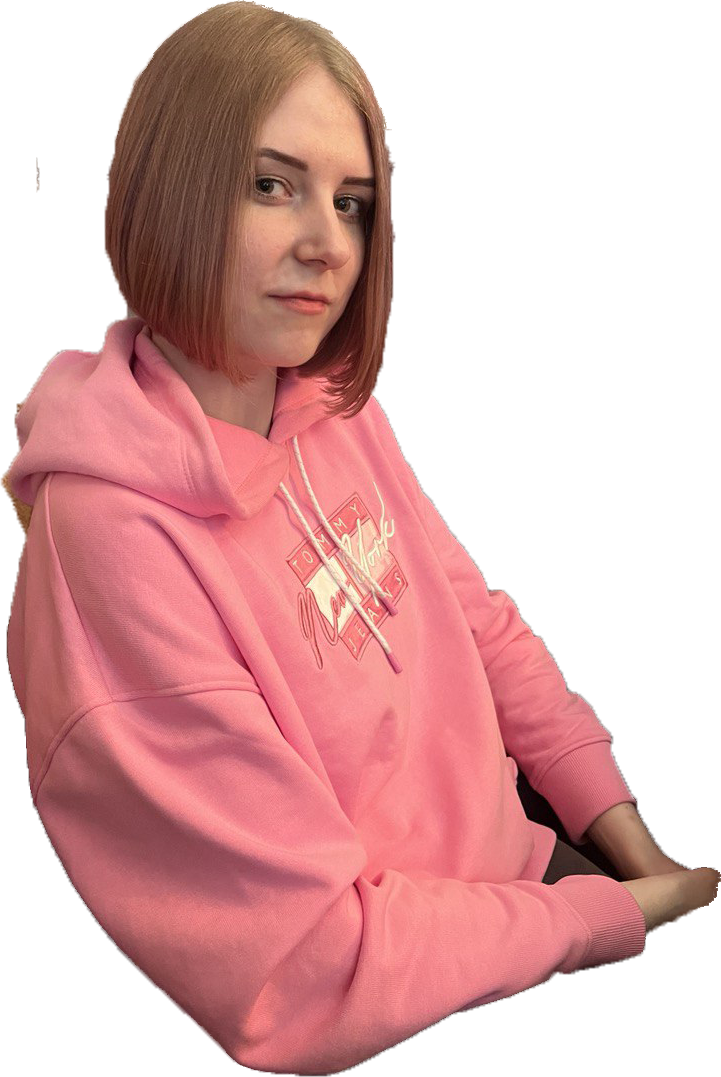
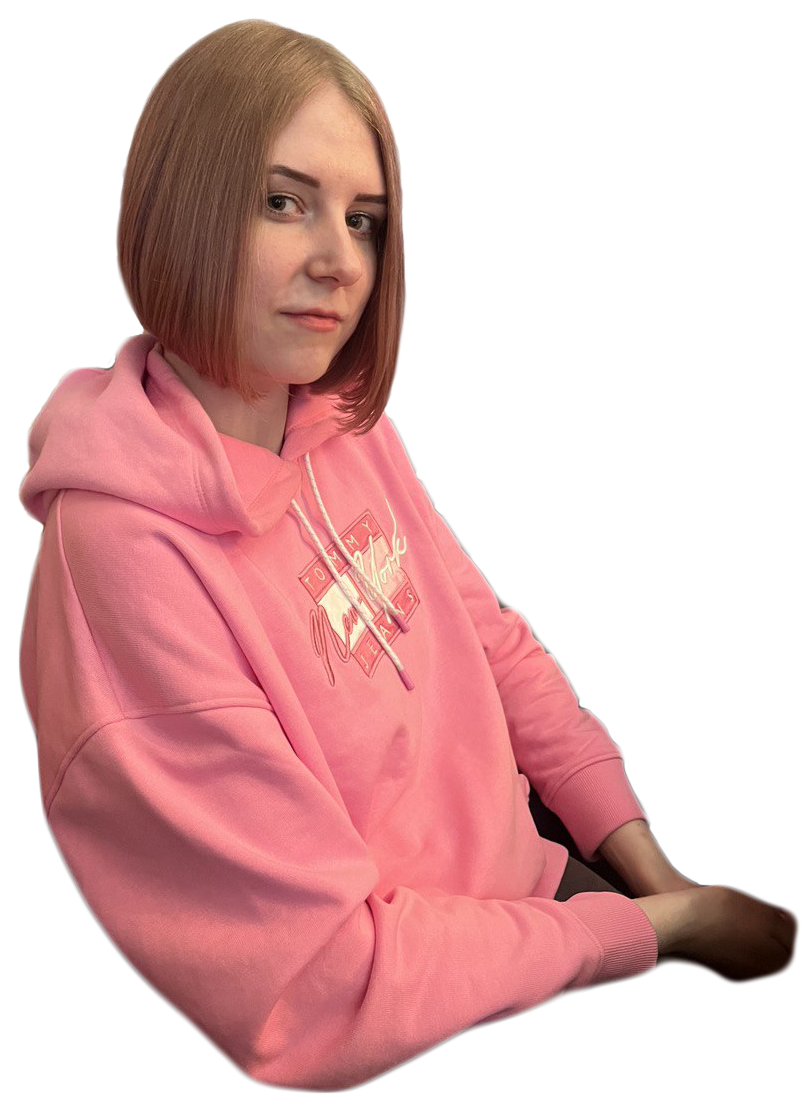
Fix photo assets

diff --git a/src/components/header/header.tsx b/src/components/header/header.tsx
@@ -1,4 +1,4 @@
-import { CV, photo1 } from "@assets";
+import { CV, profilePhoto } from "@assets";
 import { BsLinkedin } from "react-icons/bs";
 import { FaGithub } from "react-icons/fa";
 import { LinkButton } from "@ui";
@@ -19,7 +19,7 @@ export const Header = () => {
             title={"Download CV"}
           />
           <div className={styles.photo}>
-            <img src={photo1} alt="Ekaterina Dorozhkina" />
+            <img src={profilePhoto} alt="Ekaterina Dorozhkina" />
           </div>
           <LinkButton link={"#contact"} title={"Contact me"} />
         </div>

diff --git a/src/components/header/header.module.scss b/src/components/header/header.module.scss
@@ -50,10 +50,11 @@ header {
         position     : absolute;
         background   : linear-gradient(var(--deep-beige), transparent);
         width        : 350px;
-        height       : 480px;
+        height       : 560px;
         margin-top   : 90px;
         border-radius: 190px 190px 0 0;
-        padding      : 80px 24px 24px;
+        padding      : 45px 24px 24px;
+        overflow-x   : hidden;
 
         img {
           height: 480px;

diff --git a/src/assets/index.ts b/src/assets/index.ts
@@ -1,4 +1,5 @@
 import CV from "./CV_Ekaterina_Dorozhkina_React_Developer.pdf";
-import photo1 from "./photo1.png";
+import profilePhoto from "./photo1.png";
+import profileFrame from "./photo2.png";
 
-export { CV, photo1 };
+export { CV, profilePhoto, profileFrame };
